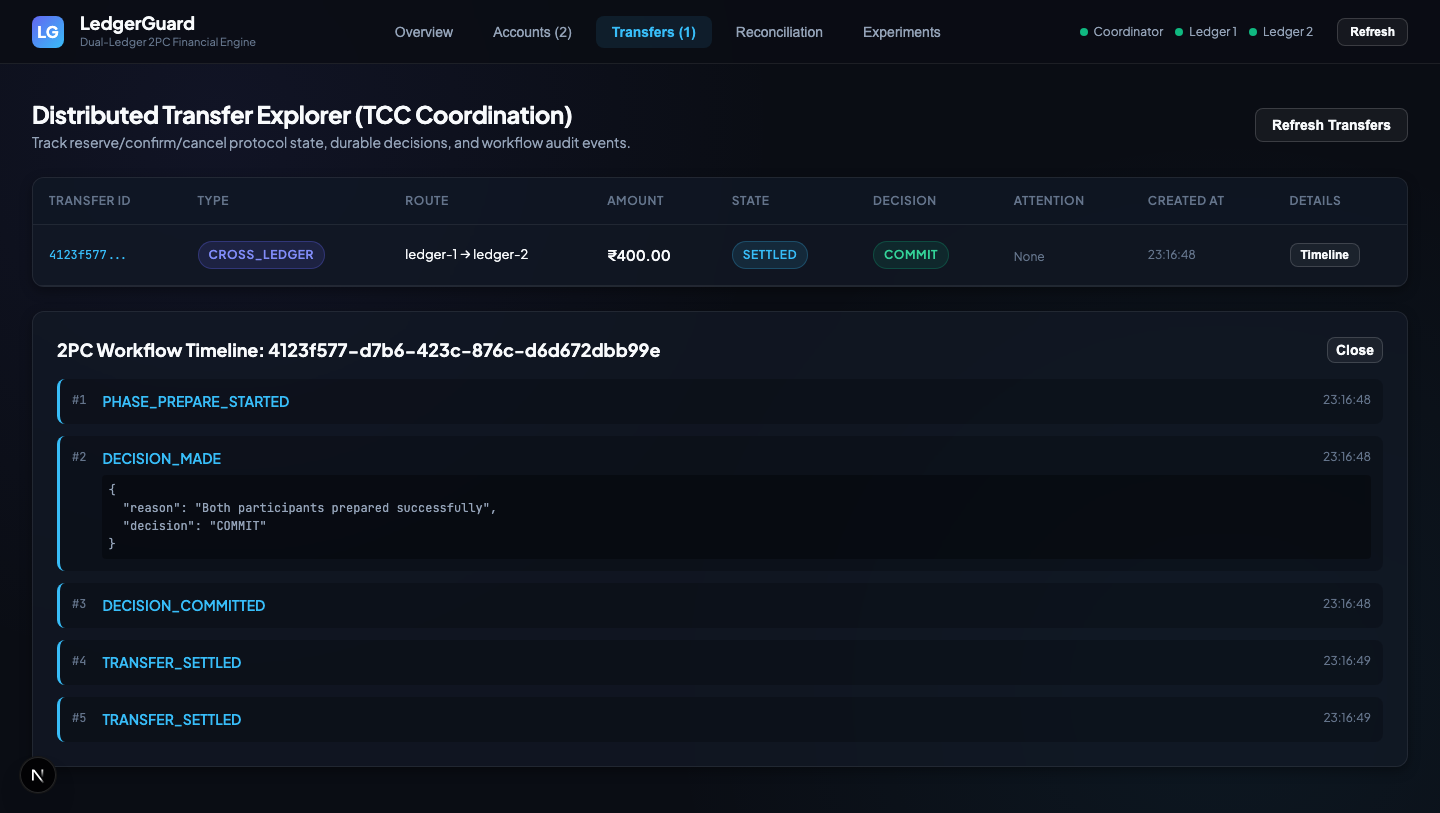
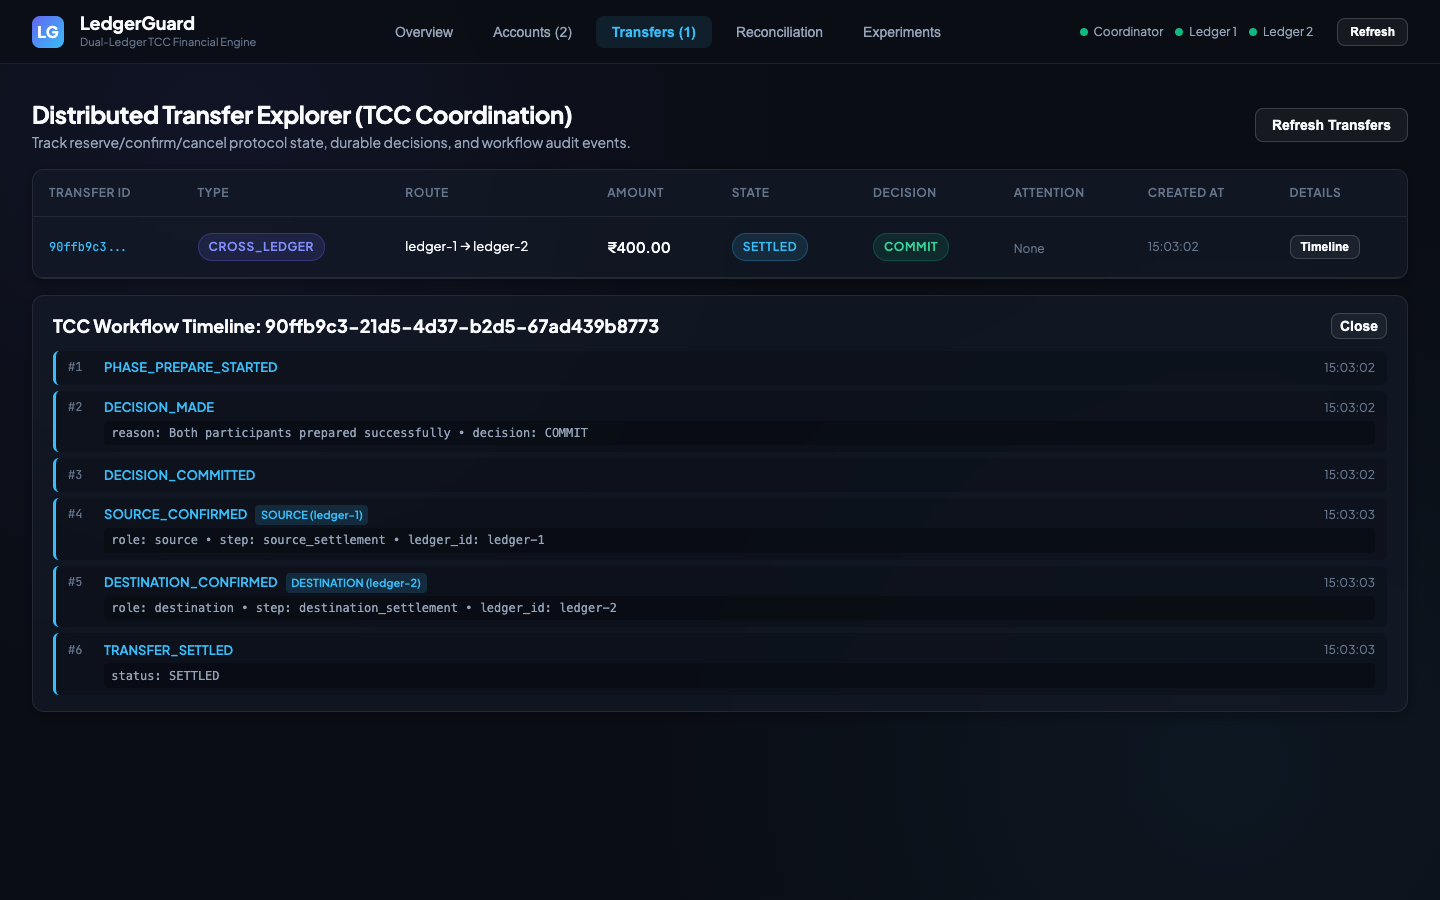
docs: refresh production console previews

diff --git a/apps/console/app/page.tsx b/apps/console/app/page.tsx
@@ -662,7 +662,7 @@ export default function OperatorConsole() {
         {/* ------------------------------------------------------------------ */}
         {activeTab === 'transfers' && (
           <div>
-            <div style={{ marginBottom: '1.5rem', display: 'flex', justifyContent: 'space-between', alignItems: 'center' }}>
+            <div style={{ marginBottom: '1rem', display: 'flex', justifyContent: 'space-between', alignItems: 'center' }}>
               <div>
                 <h2 style={{ fontSize: '1.5rem', fontWeight: 700, letterSpacing: '-0.02em' }}>
                   Distributed Transfer Explorer (TCC Coordination)
@@ -676,7 +676,7 @@ export default function OperatorConsole() {
               </button>
             </div>
 
-            <div className="glass-panel" style={{ overflow: 'hidden', marginBottom: '1.5rem' }}>
+            <div className="glass-panel" style={{ overflow: 'hidden', marginBottom: '1rem' }}>
               <table className="data-table">
                 <thead>
                   <tr>
@@ -755,8 +755,8 @@ export default function OperatorConsole() {
 
             {/* Transfer Timeline Panel */}
             {selectedTransfer && (
-              <div className="glass-panel" style={{ padding: '1.5rem' }}>
-                <div style={{ display: 'flex', justifyContent: 'space-between', alignItems: 'center', marginBottom: '1rem' }}>
+              <div className="glass-panel" style={{ padding: '1rem 1.25rem' }}>
+                <div style={{ display: 'flex', justifyContent: 'space-between', alignItems: 'center', marginBottom: '0.75rem' }}>
                   <h3 style={{ fontSize: '1.125rem', fontWeight: 700 }}>
                     TCC Workflow Timeline: {selectedTransfer.transfer_id}
                   </h3>
@@ -769,31 +769,31 @@ export default function OperatorConsole() {
                   </button>
                 </div>
 
-                <div style={{ display: 'flex', flexDirection: 'column', gap: '0.75rem' }}>
+                <div style={{ display: 'flex', flexDirection: 'column', gap: '0.375rem' }}>
                   {transferTimeline.map((ev, idx) => (
                     <div
                       key={ev.event_id}
                       style={{
                         display: 'flex',
                         alignItems: 'flex-start',
-                        gap: '1rem',
-                        padding: '0.75rem',
+                        gap: '0.75rem',
+                        padding: '0.45rem 0.75rem',
                         background: 'rgba(0,0,0,0.2)',
-                        borderRadius: '8px',
+                        borderRadius: '6px',
                         borderLeft: '3px solid var(--accent-cyan)'
                       }}
                     >
-                      <span className="font-mono" style={{ fontSize: '0.75rem', color: 'var(--text-muted)' }}>
+                      <span className="font-mono" style={{ fontSize: '0.75rem', color: 'var(--text-muted)', minWidth: '1.5rem' }}>
                         #{idx + 1}
                       </span>
                       <div style={{ flex: 1 }}>
                         <div style={{ display: 'flex', justifyContent: 'space-between', alignItems: 'center' }}>
                           <div style={{ display: 'flex', alignItems: 'center', gap: '0.5rem' }}>
-                            <span style={{ fontWeight: 600, fontSize: '0.875rem', color: 'var(--accent-cyan)' }}>
+                            <span style={{ fontWeight: 600, fontSize: '0.8125rem', color: 'var(--accent-cyan)' }}>
                               {ev.event_type}
                             </span>
                             {Boolean(ev.details && typeof ev.details === 'object' && (ev.details as Record<string, unknown>).role) && (
-                              <span style={{ fontSize: '0.7rem', padding: '0.1rem 0.4rem', borderRadius: '4px', background: 'rgba(56, 189, 248, 0.15)', color: 'var(--accent-cyan)', fontWeight: 600 }}>
+                              <span style={{ fontSize: '0.6875rem', padding: '0.1rem 0.35rem', borderRadius: '4px', background: 'rgba(56, 189, 248, 0.15)', color: 'var(--accent-cyan)', fontWeight: 600 }}>
                                 {String((ev.details as Record<string, unknown>).role).toUpperCase()} ({String((ev.details as Record<string, unknown>).ledger_id)})
                               </span>
                             )}
@@ -803,9 +803,9 @@ export default function OperatorConsole() {
                           </span>
                         </div>
                         {ev.details && Object.keys(ev.details).length > 0 && (
-                          <pre style={{ fontSize: '0.75rem', marginTop: '0.375rem', color: 'var(--text-secondary)', background: 'rgba(0,0,0,0.3)', padding: '0.375rem', borderRadius: '4px' }}>
-                            {JSON.stringify(ev.details, null, 2)}
-                          </pre>
+                          <div style={{ fontSize: '0.75rem', marginTop: '0.2rem', color: 'var(--text-secondary)', background: 'rgba(0,0,0,0.25)', padding: '0.2rem 0.45rem', borderRadius: '4px', fontFamily: 'monospace' }}>
+                            {Object.entries(ev.details).map(([k, v]) => `${k}: ${v}`).join('  •  ')}
+                          </div>
                         )}
                       </div>
                     </div>
